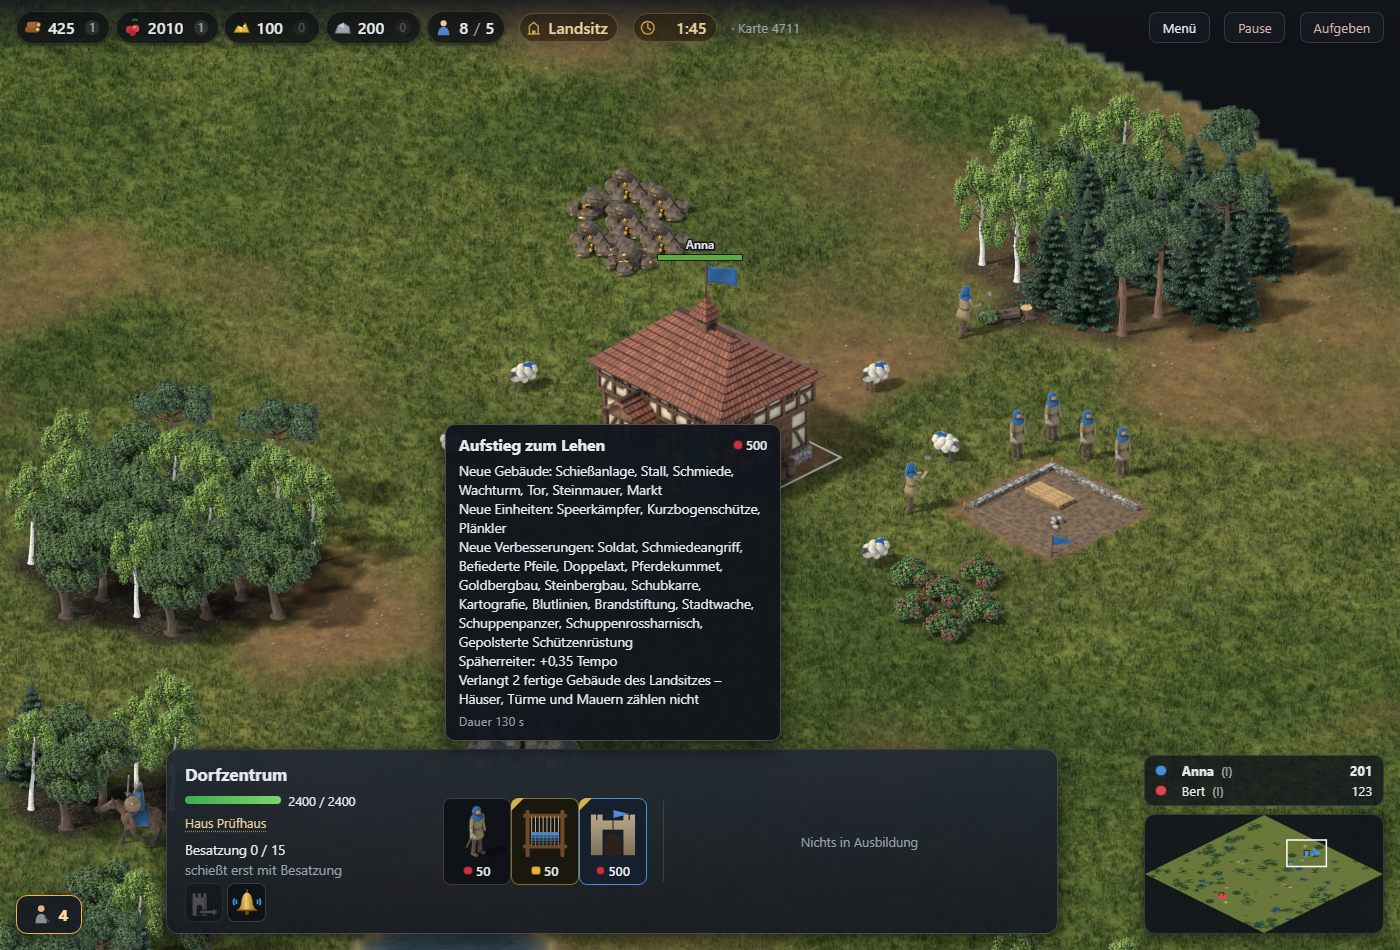
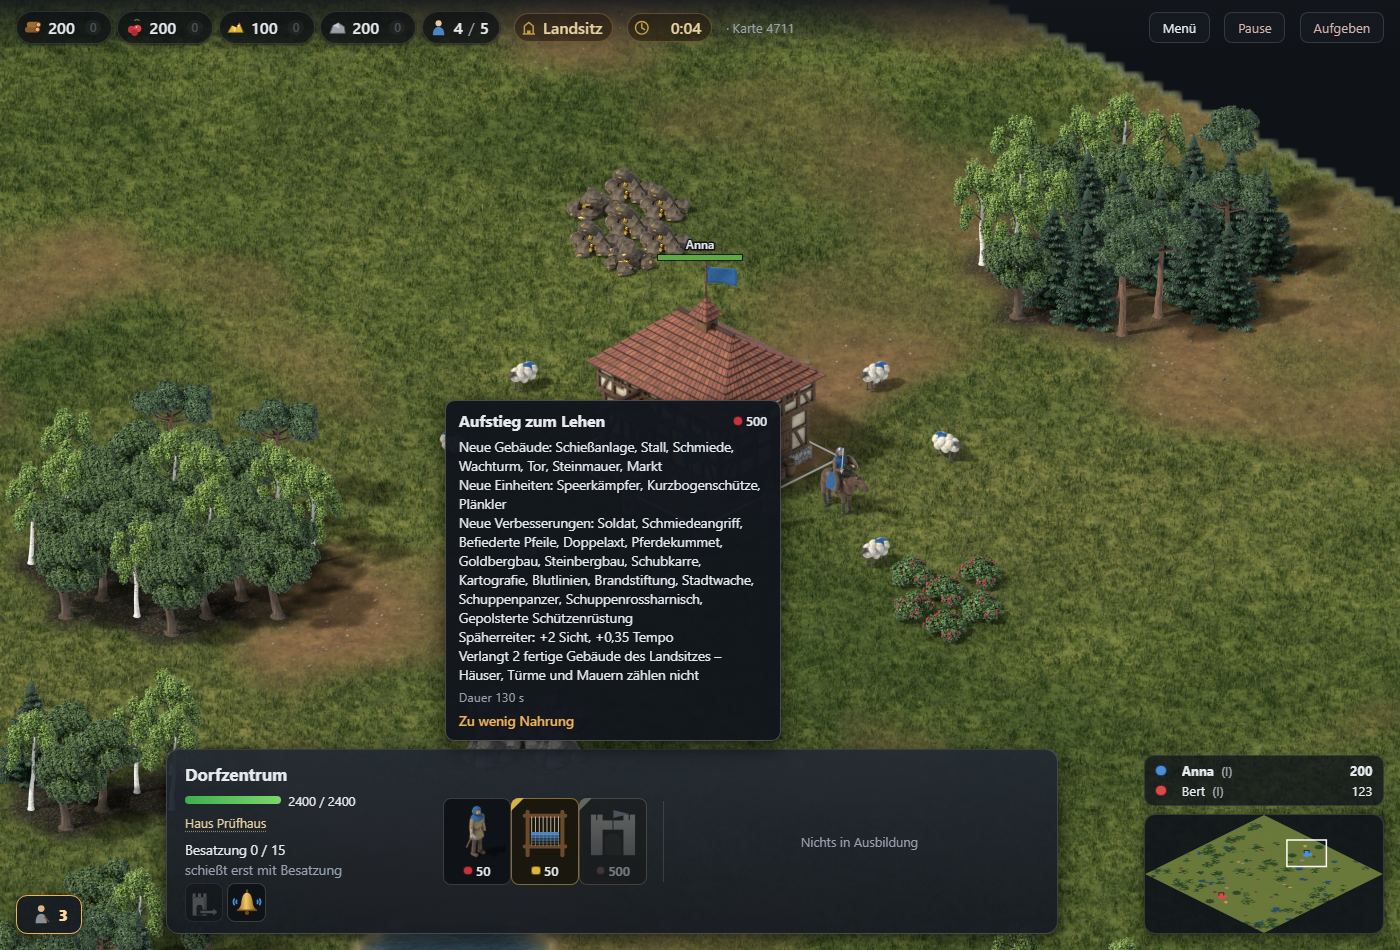
einheiten AC-75 und AC-76: Ei ablegen, die Spaeherlinie sieht weiter
AC-75: wer ein Drachenei traegt, hat an der Auswahl einen Bildknopf
"Ei ablegen" (Nachricht eiAblegen) - das Ei liegt danach auf seinem
Feld, aufheben kann es jeder Dorfbewohner, auch ein Gegner.

AC-76: der Spaeherreiter sieht im Lehen und noch einmal im Fuerstentum
zwei Felder weiter (4 -> 6 -> 8, ZEITALTER[].wirkung), die leichte
Kavallerie 8, der Husar 10. Gesetzt nach dem Gedaechtnis des Originals,
nicht aus vorlage-aoe2.md. Gemessen: Nebel 108 von 120 vor Minute 60,
Median 38,0, eine ohne Sieger (Startwert 23); zwei gegen zwei 20 von 20.

Der Feuertest des Drachen stellte die ferne Miliz neben Annas
Spaeherreiter, der sie schlug - der Spaeher geht aus der Lage, die
Miliz steht passiv.

diff --git a/public/auswahlleiste.js b/public/auswahlleiste.js
@@ -1943,6 +1943,37 @@ const BEFEHLSZEICHEN = {
     s.lineWidth = g * 0.09;
     haken();
   },
+  // Ei ablegen (einheiten AC-75): das Ei ueber dem Boden, der Pfeil zeigt
+  // hinunter.
+  eiAblegen(s, g, farbe) {
+    s.fillStyle = '#5a4630';
+    s.beginPath();
+    s.ellipse(0.42 * g, 0.88 * g, 0.32 * g, 0.07 * g, 0, 0, Math.PI * 2);
+    s.fill();
+    const verlauf = s.createRadialGradient(0.34 * g, 0.3 * g, 0.03 * g, 0.42 * g, 0.44 * g, 0.34 * g);
+    verlauf.addColorStop(0, '#f6efd9');
+    verlauf.addColorStop(1, '#b8a47a');
+    s.fillStyle = verlauf;
+    s.strokeStyle = '#3a2e1e';
+    s.lineWidth = g * 0.03;
+    s.beginPath();
+    s.ellipse(0.42 * g, 0.46 * g, 0.22 * g, 0.3 * g, 0, 0, Math.PI * 2);
+    s.fill();
+    s.stroke();
+    s.fillStyle = '#7a5a3a';
+    for (const [x, y, r] of [[0.36, 0.36, 0.03], [0.5, 0.5, 0.035], [0.4, 0.6, 0.025], [0.52, 0.3, 0.02]]) {
+      s.beginPath();
+      s.arc(x * g, y * g, r * g, 0, Math.PI * 2);
+      s.fill();
+    }
+    // Der Pfeil rechts daneben, senkrecht nach unten.
+    s.save();
+    // Gedreht um eine Vierteldrehung: aus (x, y) wird (1,68 g - y, x).
+    s.translate(1.68 * g, 0);
+    s.rotate(Math.PI / 2);
+    pfeilMalen(s, g, 0.16, 0.8, 0.84, farbe);
+    s.restore();
+  },
   // Angriff: zwei gekreuzte Schwerter.
   'haltung-angriff'(s, g, farbe) {
     schwertMalen(s, g, 0.16, 0.86, 0.88, 0.14, farbe);
@@ -2435,7 +2466,7 @@ export class Auswahlleiste {
       const einzeln = auswahl.length === 1 ? auswahl[0] : null;
       const schluessel = einzeln
         ? `e${einzeln.i}:${einzeln.k}:${einzeln.h}:${einzeln.l}:${einzeln.a}:${einzeln.hd}:${einzeln.r}:${einzeln.ab}:${bezahlbar}:${a.platzieren?.art}:${a.verbesserungen.length}:${a.bauseite || 0}:${einzeln.ht}:${a.einquartierenAn}`
-        : `m${auswahl.map((e) => `${e.i}${e.k}${e.ab ? 'a' : ''}${e.ht || ''}`).join(',')}:${bezahlbar}:${a.platzieren?.art}:${a.bauseite || 0}:${a.einquartierenAn}`;
+        : `m${auswahl.map((e) => `${e.i}${e.k}${e.ab ? 'a' : ''}${e.ht || ''}${e.a === 'e' && e.l > 0 ? 'e' : ''}`).join(',')}:${bezahlbar}:${a.platzieren?.art}:${a.bauseite || 0}:${a.einquartierenAn}`;
       if (schluessel !== this.gezeigt) {
         this.wurzel.replaceChildren();
         if (einzeln) this.einheitBauen(einzeln, farbe);
@@ -3040,7 +3071,9 @@ export class Auswahlleiste {
     const eigene = auswahl.filter((e) => e.b === a.ich && !e.s);
     const mitHaltung = eigene.filter((e) => a.werte.einheiten[a.arten[e.k]]?.haltung);
     const quartierbar = eigene.filter((e) => a.werte.einheiten[a.arten[e.k]]?.quartiere?.length);
-    if (!mitHaltung.length && !quartierbar.length) return null;
+    // Wer ein Ei traegt, kann es ablegen (einheiten AC-75).
+    const eiTraeger = eigene.filter((e) => e.a === 'e' && e.l > 0);
+    if (!mitHaltung.length && !quartierbar.length && !eiTraeger.length) return null;
     const block = element('div', 'befehle');
     const farbe = a.spieler.get(a.ich)?.farbe || '#888888';
     const knopfFuer = (befehl, text, gedrueckt, tun) => {
@@ -3067,6 +3100,12 @@ export class Auswahlleiste {
         a.einquartierenAn, () => a.einquartierenSetzen(!a.einquartierenAn));
       knopf.id = 'einquartieren';
       if (quartierbar.length > 1) knopf.append(element('span', 'befehl-zahl', String(quartierbar.length)));
+      block.append(knopf);
+    }
+    if (eiTraeger.length) {
+      const knopf = knopfFuer('eiAblegen', 'Ei ablegen', null,
+        () => this.senden({ auftrag: 'eiAblegen', einheiten: eiTraeger.map((e) => e.i) }));
+      knopf.id = 'eiAblegen';
       block.append(knopf);
     }
     return block;
@@ -3162,6 +3201,12 @@ export class Auswahlleiste {
         `Drinnen trifft sie niemand, und sie heilen 1 Leben alle ${regel.heilen ?? 2} s`,
         'Je Dorfbewohner, Fußsoldat oder Schütze darin schießt das Gebäude einen Pfeil mehr',
         'Reiter nur in die Burg, Belagerung und Karren nie',
+      ] };
+    }
+    if (befehl === 'eiAblegen') {
+      return { ...leer, name: 'Ei ablegen', dauer: null, zeilen: [
+        'Legt das Drachenei hier auf den Boden',
+        'Jeder Dorfbewohner kann es wieder aufheben – auch ein fremder',
       ] };
     }
     if (befehl === 'heraus') {

diff --git a/server/spiele/strategie/daten.js b/server/spiele/strategie/daten.js
@@ -278,9 +278,11 @@ const EINHEITEN = {
   // Tempo 1,55 und nicht die 1,5 des Originals: so schnell laeuft der
   // Spaeherreiter hier schon ab dem Lehen (einheiten AC-57), und eine
   // Verbesserung, die ihn bremst, verstuende niemand. Die Wirkung des Lehens
-  // gilt der Art `spaeherreiter` und kommt hier nicht dazu.
+  // gilt der Art `spaeherreiter` und kommt hier nicht dazu - deshalb auch
+  // Sicht 8 als eigener Wert, so weit wie der Spaeherreiter im Fuerstentum
+  // (einheiten AC-76, gesetzt, nicht aus der Vorlage).
   leichtekavallerie: {
-    leben: 60, tempo: 1.55, sicht: 4, tragkraft: 0, kosten: { nahrung: 80 }, zeit: 30, kuerzel: 'v',
+    leben: 60, tempo: 1.55, sicht: 8, tragkraft: 0, kosten: { nahrung: 80 }, zeit: 30, kuerzel: 'v',
     angriff: 7, nahruestung: 0, fernruestung: 2, reichweite: 0, nachladen: 2,
     klassen: ['kavallerie'], zeitalter: 2, stufeVon: 'spaeherreiter',
   },
@@ -305,8 +307,10 @@ const EINHEITEN = {
     angriff: 6, nahruestung: 0, fernruestung: 0, reichweite: 0, nachladen: 3,
     klassen: ['infanterie', 'speer'], bonus: { kavallerie: 32 }, zeitalter: 3, stufeVon: 'pikenier',
   },
+  // Sicht 10: die Spaeherlinie sieht in der Krone noch zwei Felder weiter
+  // (einheiten AC-76, gesetzt).
   husar: {
-    leben: 75, tempo: 1.55, sicht: 4, tragkraft: 0, kosten: { nahrung: 80 }, zeit: 30, kuerzel: 'U',
+    leben: 75, tempo: 1.55, sicht: 10, tragkraft: 0, kosten: { nahrung: 80 }, zeit: 30, kuerzel: 'U',
     angriff: 7, nahruestung: 0, fernruestung: 2, reichweite: 0, nachladen: 1.9,
     klassen: ['kavallerie'], zeitalter: 3, stufeVon: 'leichtekavallerie',
   },
@@ -760,13 +764,20 @@ const BEVOELKERUNG_MAX = 200;
 // und gelesen ueber `welt.wirkungen()`. Der Spaeherreiter laeuft ab der
 // Feudalzeit 1,55 statt 1,2 Felder je Sekunde, wie in der Vorlage (einheiten
 // AC-57) - in der Dunklen Zeit ist er ein Kundschafter, danach ein Reiter.
+// Er sieht im Lehen und noch einmal im Fuerstentum zwei Felder weiter, 4 ->
+// 6 -> 8 (einheiten AC-76, Benutzer 2026-11-25: "die sichtweite der
+// einheiten ist irgendwie sehr kurz, auch später"). Wie das Original nach
+// dem Gedaechtnis, nicht aus docs/strategie/vorlage-aoe2.md.
 const ZEITALTER = [
   { id: 'dunkel', name: 'Landsitz', artikel: 'der Landsitz', genitiv: 'des Landsitzes', ab: 'ab dem Landsitz', zum: 'zum Landsitz' },
   {
     id: 'feudal', name: 'Lehen', artikel: 'das Lehen', genitiv: 'des Lehens', ab: 'ab dem Lehen', zum: 'zum Lehen',
-    wirkung: { spaeherreiter: { tempo: 0.35 } },
+    wirkung: { spaeherreiter: { tempo: 0.35, sicht: 2 } },
   },
-  { id: 'ritter', name: 'Fürstentum', artikel: 'das Fürstentum', genitiv: 'des Fürstentums', ab: 'ab dem Fürstentum', zum: 'zum Fürstentum' },
+  {
+    id: 'ritter', name: 'Fürstentum', artikel: 'das Fürstentum', genitiv: 'des Fürstentums', ab: 'ab dem Fürstentum', zum: 'zum Fürstentum',
+    wirkung: { spaeherreiter: { sicht: 2 } },
+  },
   { id: 'imperial', name: 'Krone', artikel: 'die Krone', genitiv: 'der Krone', ab: 'ab der Krone', zum: 'zur Krone' },
 ];
 

diff --git a/server/spiele/strategie/welt.js b/server/spiele/strategie/welt.js
@@ -2239,6 +2239,8 @@ class Welt {
         return this.abruesten(spielerId, nachricht.einheiten);
       case 'rufen':
         return this.rufen(spielerId, nachricht.gebaeude);
+      case 'eiAblegen':
+        return this.eiAblegenBefehl(spielerId, nachricht.einheiten);
       case 'einquartieren':
         return this.einquartieren(spielerId, nachricht.einheiten, nachricht.gebaeude);
       case 'heraus':
@@ -3745,6 +3747,31 @@ class Welt {
     ei.kloster = null;
     ei.x = Math.round(x);
     ei.y = Math.round(y);
+  }
+
+  /**
+   * Der Traeger legt das Ei ab, wo er steht (einheiten AC-75): danach ist er
+   * ein Dorfbewohner ohne Ladung und Auftrag, und das Ei liegt am Boden wie
+   * bei einem Gefallenen - jeder kann es wieder aufheben. Wer kein Ei
+   * traegt, wird uebergangen.
+   */
+  eiAblegenBefehl(spielerId, einheitIds) {
+    if (!Array.isArray(einheitIds)) return { fehler: 'Wer soll das Ei ablegen?' };
+    let abgelegt = 0;
+    for (const id of einheitIds.slice(0, 200)) {
+      const einheit = this.einheiten.get(id);
+      if (!einheit || einheit.besitzer !== spielerId || einheit.tot) continue;
+      const ei = this.eiVon(einheit);
+      if (!ei) continue;
+      this.anhalten(einheit);
+      this.eiAblegen(ei, einheit.x, einheit.y);
+      einheit.ladung = 0;
+      einheit.ladungsart = null;
+      einheit.auftrag = null;
+      abgelegt++;
+    }
+    if (!abgelegt) return { fehler: 'Niemand trägt ein Ei.' };
+    return {};
   }
 
   // Das naechste eigene Tier hoechstens ein Feld vom Klick entfernt.

diff --git a/specs/10-strategie/einheiten-und-befehle.md b/specs/10-strategie/einheiten-und-befehle.md
@@ -2,7 +2,7 @@
 
 **Bereich:** Strategie
 **Kuerzel:** einheiten
-**Stand:** 63/67 fertig · 1 in QA · 2 offen · 1 zurueckgestellt
+**Stand:** 65/69 fertig · 1 in QA · 2 offen · 1 zurueckgestellt
 
 ## Zweck
 
@@ -583,7 +583,8 @@ AC-19). Werte und Dauern sind Startwerte aus ADR-0014.
   nächsten Dörfern höchstens zwei Felder verschieden weit, und mehrere Eier
   so weit auseinander wie möglich. Aufgehoben wird aus anderthalb Feldern
   (`DRACHE.ei.greifen`). Wer ein Ei trägt, trägt nur das Ei: ein Rechtsklick
-  auf ein eigenes Kloster legt es ab, jeder andere ist ein Gang. Mönch,
+  auf ein eigenes Kloster legt es ab, jeder andere ist ein Gang (auf den
+  Boden legt es der Knopf „Ei ablegen“, AC-75). Mönch,
   Belagerung und Karren holen keines. Ist die Einstellung „Drache“ aus
   (AC-52), liegt keines.
 - **AC-52** `in-qa` **Der Drache fliegt und brennt** — Höchstens einer je Spieler.
@@ -849,6 +850,39 @@ der Einheit bleiben die der Vorstufe. Die Werte stehen in
   **Messbar:** läuft das Ziel vom Drachen fort, hält er in 30 Sekunden
   höchstens einmal an (vorher 13-mal); im Browser zeigt die Figur dabei
   kein Standbild.
+- **AC-75** `fertig` **Das Ei wieder ablegen** — Wer ein Ei trägt (AC-51),
+  bekommt an der Auswahl einen Bildknopf „Ei ablegen“ wie die übrigen
+  Befehle (bedienung AC-87): ein Ei mit einem Pfeil nach unten, der Name
+  in der Tafel und im `aria-label`. Ein Druck legt das Ei dort auf den
+  Boden, wo der Träger steht — gerundet auf sein Feld, wie beim Fallen —,
+  und der Träger ist danach ein Dorfbewohner ohne Ladung und ohne Auftrag.
+  Jeder kann das Ei wieder aufheben, auch ein Gegner. Sind mehrere
+  gewählt, legt jeder Träger darunter seines ab; wer keines trägt, bleibt,
+  wie er ist. Ein fremder oder gefallener Träger wird nicht angenommen.
+  **Benutzer, 2026-11-25:** „Wie lässt der dorfbewohner es wieder los?“ —
+  „ja bitte“ (auf den Vorschlag eines Bildknopfs). Vorher ließ er es nur
+  los, wenn er fiel, entlassen wurde oder das Kloster einstürzte, in dem
+  es lag. **Messbar:** nach dem Befehl liegt das Ei am Boden auf dem Feld
+  des Trägers, der trägt nichts, und ein anderer Dorfbewohner hebt es auf;
+  ein Befehl an einen, der kein Ei trägt, wird mit einem Satz abgewiesen;
+  im Browser steht der Knopf nur an einem Träger und verschwindet mit dem
+  Druck.
+- **AC-76** `fertig` **Die Späherlinie sieht weiter** — Der Späherreiter
+  sieht im Landsitz 4 Felder weit, ab dem Lehen 6 und ab dem Fürstentum 8;
+  die leichte Kavallerie sieht 8, der Husar 10. Wie das Tempo (AC-57) ist
+  es eine Wirkung des Zeitalters (`ZEITALTER[].wirkung`), gilt nur dem, der
+  aufgestiegen ist, und steht in der Tafel des Aufstiegs. Alle anderen
+  Einheiten behalten ihre Sicht. **Benutzer, 2026-11-25:** „die sichtweite
+  der einheiten ist irgendwie sehr kurz, auch später“ — „ja bitte“ (auf
+  den Vorschlag, die Späherlinie wachsen zu lassen; die übrigen Werte
+  entsprechen der Vorlage). **Gesetzt** nach dem Gedächtnis des Originals,
+  nicht aus `docs/strategie/vorlage-aoe2.md`. **Messbar:** der Server
+  rechnet die Sichtweite je Zeitalter und Stufe wie oben, die Sichtfelder
+  eines Späherreiters im Fürstentum reichen 8 Felder weit, und die KI hält
+  danach die Ersatzgrenze im Nebel (fahrplan AC-11) und zwei gegen zwei.
+  **Gemessen danach:** Nebel 108 von 120 vor Minute 60, Median 38,0, eine
+  ohne Sieger (Startwert 23; vorher 109, 38,2, keine); zwei gegen zwei 20
+  von 20 mit siegreichem Team.
 
 ## Grenzfaelle
 

diff --git a/docs/strategie/steuerstand.md b/docs/strategie/steuerstand.md
@@ -26,6 +26,18 @@ Punkt unten sucht, sucht dort nach „Punkt <n> (Benutzer“.
 
 ## Zuletzt fortgeschrieben
 
+**2026-11-25, Abend — einheiten AC-75 und AC-76 committet** (nicht
+gepusht, `main` = Server `a0c1039`). AC-75 „Ei ablegen“: Bildknopf an
+jedem Eiträger, Nachricht `eiAblegen`, legt es auf sein Feld, aufheben
+kann jeder. AC-76 Späherlinie sieht weiter: Späherreiter 4 → 6 → 8 über
+`ZEITALTER[].wirkung`, leichte Kavallerie 8, Husar 10 — nach dem
+Gedächtnis, nicht aus der Vorlage. Gemessen: Nebel 108 von 120, Median
+38,0, **eine ohne Sieger (Startwert 23) — genau die Grenze**, vorher
+keine; zwei gegen zwei 20 von 20. Nebenbei `strategie-drache.test.mjs`
+(Feuer drei Felder daneben): Annas Späherreiter schlug die ferne Miliz —
+Testaufbau, nicht die Regel; Späher raus, Miliz passiv. check:kurz grün
+(1275, 39). Board 693/777. Vor dem Pushen: ganzer Browserlauf allein.
+
 **2026-11-25, Nachmittag — `8c9a297` einheiten AC-74** (Benutzer: „wenn
 der drache jemandem nachfliegt ist das etwas hibbelig"; nicht gepusht).
 Außer Reichweite nimmt ein Flieger jeden Takt die Lage des Ziels ohne
@@ -34,8 +46,9 @@ Wegsuche, in Reichweite gleitet er hinterher (`welt.nachfliegen`,
 (`ansicht.fliegt`, `figurPhasen`). Kein neues Feld, keine neue Fassung.
 `strategie-drache.spec.mjs` 8 von 8 zweimal, check:kurz grün (1273 Tests,
 39 Partien), qa:abweichung: AC-74 neu, kampf AC-23 und einheiten AC-53
-je 75 % (Drache steht anders) — angesehen. Board 691/775. Weiter offen
-und gefragt: (a) Späherlinie, (b) „Ei ablegen" (siehe darunter).
+je 75 % (Drache steht anders) — angesehen. Board 691/775. **Danach
+freigegeben** (Benutzer: „ja bitte"): (a) Späherlinie sieht weiter, (b)
+„Ei ablegen" als Bildknopf — beides in Arbeit (siehe darunter).
 
 **2026-11-25, Mittag — Stand nach `c4cf38b`** (nicht gepusht, `main` =
 Server `a0c1039`). Committet auf `strategie`: `f9fa0a5` kampf AC-32 (Nebel

diff --git a/specs/BOARD.md b/specs/BOARD.md
@@ -7,9 +7,9 @@ Eine Zeile je Abnahmekriterium. Gepflegt wird der Status in der Spec selbst,
 hier steht er zusammengefasst. Erzeugt mit `npm run specs:board`; als Seite
 mit Bildnachweisen, Filter und Suche mit `npm run qa:report`.
 
-**Gesamt:** 691/775 fertig · 3 in Arbeit · 19 in QA · 3 geplant · 51 offen · 8 zurueckgestellt
+**Gesamt:** 693/777 fertig · 3 in Arbeit · 19 in QA · 3 geplant · 51 offen · 8 zurueckgestellt
 
-**Nachweise:** 361 Kriterien mit Bild · 340 ohne Bild, begruendet in `qa/ohne-bild.json`
+**Nachweise:** 363 Kriterien mit Bild · 340 ohne Bild, begruendet in `qa/ohne-bild.json`
 
 ## Nach Spezifikation
 
@@ -24,7 +24,7 @@ mit Bildnachweisen, Filter und Suche mit `npm run qa:report`.
 | [Bauen und Ausbilden](10-strategie/bauen.md)                   | -         | -     | -       | -     | -               | 62     |
 | [Bedienung](10-strategie/bedienung.md)                         | -         | 2     | -       | 3     | -               | 84     |
 | [Darstellung](10-strategie/darstellung.md)                     | 1         | 1     | -       | 4     | -               | 27     |
-| [Einheiten und Befehle](10-strategie/einheiten-und-befehle.md) | -         | 1     | -       | 2     | 1               | 63     |
+| [Einheiten und Befehle](10-strategie/einheiten-und-befehle.md) | -         | 1     | -       | 2     | 1               | 65     |
 | [Fahrplan zum Klon](10-strategie/fahrplan.md)                  | -         | 2     | -       | 2     | -               | 22     |
 | [Kampf](10-strategie/kampf.md)                                 | -         | -     | -       | -     | 1               | 31     |
 | [Karte und Vorraete](10-strategie/karte-und-vorraete.md)       | -         | -     | -       | 2     | 3               | 14     |

diff --git a/CLAUDE.md b/CLAUDE.md
@@ -185,7 +185,7 @@ Umfang hinzufügt, dort nachsehen.
 
 ## Stand
 
-**691 von 775 Kriterien fertig.** 1273 Tests ohne Browser und 39 ganze Partien, 380 im Browser. Die
+**693 von 777 Kriterien fertig.** 1275 Tests ohne Browser und 39 ganze Partien, 381 im Browser. Die
 Übersicht ist der Bericht: `npm run qa:report`.
 
 Gebaut ist der Unterbau: Räume, Übertragung, Karte, Wegfindung, Sammeln,
@@ -1130,6 +1130,17 @@ mitspielte, sieht im Vorraum die Einladung mit dem neuen Code
 einer, legt der Gastgeber ihn still (`stilllegen`): seine Einheiten bleiben
 ohne Herrn stehen. Fortgesetzt zu mehreren beginnt die Partie angehalten.
 Der Browserlauf meldet dafür ein zweites Konto an (`ZWEITES_KONTO`, Dora).
+
+**Rückmeldungen vom 2026-11-25** (nach dem Spiel mit Glocke): **Die
+Späherlinie sieht weiter** (einheiten AC-76, Benutzer: „die sichtweite der
+einheiten ist irgendwie sehr kurz, auch später“): der Späherreiter +2 im
+Lehen und noch einmal im Fürstentum (4 → 6 → 8, `ZEITALTER[].wirkung`),
+leichte Kavallerie 8, Husar 10 — **nach dem Gedächtnis des Originals, nicht
+aus `vorlage-aoe2.md`**. Gemessen danach: Nebel 108 von 120 vor Minute 60,
+Median 38,0, eine ohne Sieger (Startwert 23 — genau die Grenze, vorher
+keine); zwei gegen zwei 20 von 20. **„Ei ablegen“** (AC-75, Nachricht
+`eiAblegen`): ein Bildknopf an jedem, der ein Drachenei trägt, legt es auf
+sein Feld; aufheben kann es jeder, auch ein Gegner.
 
 **Einquartieren und Notfallklingel** (bauen AC-58 bis AC-61, Entscheidung 9
 des Benutzers, Zweig `strategie-glocke`): Dorfzentrum (15), Wachturm (5)
